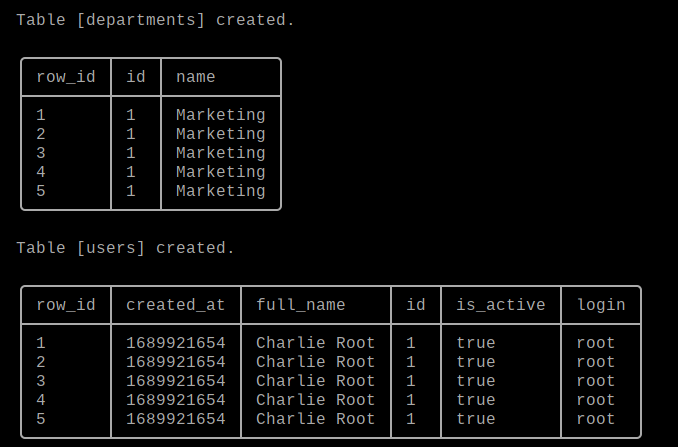
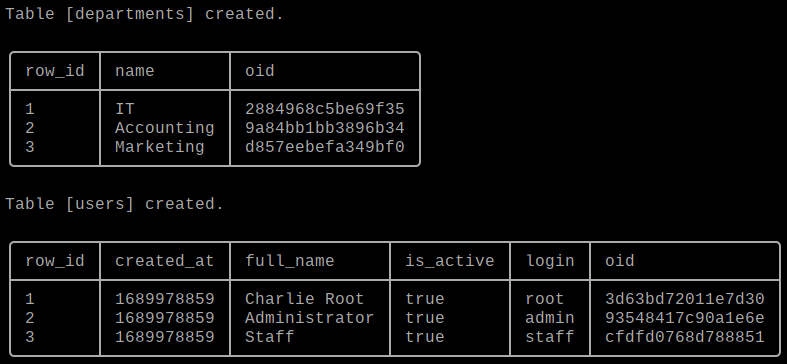
refactor: crud example

diff --git a/src/rebox-storage/examples/crud.rs b/src/rebox-storage/examples/crud.rs
@@ -1,4 +1,8 @@
 use chrono::Utc;
+use rebox_storage::database::{
+    row::{column::data::RowData, TableRow},
+    Database,
+};
 use rebox_types::{
     schema::{
         column::{
@@ -10,13 +14,8 @@ use rebox_types::{
     ReboxResult,
 };
 
-use rebox_storage::database::{
-    row::{column::data::RowData, TableRow},
-    Database,
-};
 fn main() -> ReboxResult<()> {
     let db_name = "example_crud";
-
     let db = Database::new().set_name(db_name)?.build()?;
     CrudDepartments::run(&db)?;
     CrudUsers::run(&db)?;
@@ -42,7 +41,7 @@ impl CrudDepartments {
 
         // let rows = db.get_table_rows(&table_name, Some(&row_id))?;
         let rows = db.get_table_rows(&table_name, None)?;
-        print_rows_as_json(&rows)?;
+        // print_rows_as_json(&rows)?;
         print_row_as_table(&rows)?;
 
         // let table_name = db.drop_table(table.name())?;
@@ -52,8 +51,8 @@ impl CrudDepartments {
     }
     fn generate_table() -> ReboxResult<Table> {
         let id = SchemaColumn::new()
-            .set_name("id")?
-            .set_kind(ColumnKind::Natural)
+            .set_name("oid")?
+            .set_kind(ColumnKind::Text)
             .set_nullable(false)
             .build();
         let name = SchemaColumn::new()
@@ -75,8 +74,8 @@ impl CrudDepartments {
             let mut row = TableRow::from(table);
             let btree = row.get_mut();
             let _ = btree
-                .get_mut("id")
-                .map(|column| column.set_value(ColumnValue::Natural(1)));
+                .get_mut("oid")
+                .map(|column| column.set_value(ColumnValue::Text(gen_new_oid())));
             let _ = btree
                 .get_mut("name")
                 .map(|column| column.set_value(ColumnValue::Text("IT".into())));
@@ -89,8 +88,8 @@ impl CrudDepartments {
             let mut row = TableRow::from(table);
             let btree = row.get_mut();
             let _ = btree
-                .get_mut("id")
-                .map(|column| column.set_value(ColumnValue::Natural(2)));
+                .get_mut("oid")
+                .map(|column| column.set_value(ColumnValue::Text(gen_new_oid())));
             let _ = btree
                 .get_mut("name")
                 .map(|column| column.set_value(ColumnValue::Text("Accounting".into())));
@@ -103,8 +102,8 @@ impl CrudDepartments {
             let mut row = TableRow::from(table);
             let btree = row.get_mut();
             let _ = btree
-                .get_mut("id")
-                .map(|column| column.set_value(ColumnValue::Natural(3)));
+                .get_mut("oid")
+                .map(|column| column.set_value(ColumnValue::Text(gen_new_oid())));
             let _ = btree
                 .get_mut("name")
                 .map(|column| column.set_value(ColumnValue::Text("Marketing".into())));
@@ -126,13 +125,16 @@ impl CrudUsers {
         let table_name = db.create_table(table.clone())?;
         println!("\nTable [{table_name}] created.\n");
 
-        let table_row = Self::generate_data(&table)?;
+        let rows = Self::generate_data(&table)?;
         // dbg!(&table_row);
-        let row_id = db.insert_into_table(table_name.clone(), table_row)?;
+        let _ = rows
+            .into_iter()
+            .map(|row| db.insert_into_table(table_name.clone(), row))
+            .collect::<ReboxResult<Vec<RowId>>>()?;
 
         // let rows = db.get_table_rows(&table_name, Some(&row_id))?;
         let rows = db.get_table_rows(&table_name, None)?;
-        print_rows_as_json(&rows)?;
+        // print_rows_as_json(&rows)?;
         print_row_as_table(&rows)?;
 
         // let table_name = db.drop_table(table.name())?;
@@ -141,8 +143,8 @@ impl CrudUsers {
     }
     fn generate_table() -> ReboxResult<Table> {
         let id = SchemaColumn::new()
-            .set_name("id")?
-            .set_kind(ColumnKind::Natural)
+            .set_name("oid")?
+            .set_kind(ColumnKind::Text)
             .set_nullable(false)
             .build();
         let login = SchemaColumn::new()
@@ -178,30 +180,85 @@ impl CrudUsers {
 
         Ok(table)
     }
-    fn generate_data(table: &Table) -> ReboxResult<TableRow> {
-        let mut row = TableRow::from(table);
-        let btree = row.get_mut();
-        let _ = btree
-            .get_mut("id")
-            .map(|column| column.set_value(ColumnValue::Natural(1)));
-        let _ = btree
-            .get_mut("login")
-            .map(|column| column.set_value(ColumnValue::Text("root".into())));
+    fn generate_data(table: &Table) -> ReboxResult<Vec<TableRow>> {
+        let mut rows = vec![];
+        {
+            let mut row = TableRow::from(table);
+            let btree = row.get_mut();
+            let _ = btree
+                .get_mut("oid")
+                .map(|column| column.set_value(ColumnValue::Text(gen_new_oid())));
+            let _ = btree
+                .get_mut("login")
+                .map(|column| column.set_value(ColumnValue::Text("root".into())));
 
-        let _ = btree
-            .get_mut("full_name")
-            .map(|column| column.set_value(ColumnValue::Text("Charlie Root".into())));
+            let _ = btree
+                .get_mut("full_name")
+                .map(|column| column.set_value(ColumnValue::Text("Charlie Root".into())));
 
-        let _ = btree
-            .get_mut("is_active")
-            .map(|column| column.set_value(ColumnValue::Bool(true)));
+            let _ = btree
+                .get_mut("is_active")
+                .map(|column| column.set_value(ColumnValue::Bool(true)));
 
-        let _ = btree
-            .get_mut("created_at")
-            .map(|column| column.set_value(ColumnValue::Integer(Utc::now().timestamp())));
-        row.verify()?;
-        row.check_verified()?;
-        Ok(row)
+            let _ = btree
+                .get_mut("created_at")
+                .map(|column| column.set_value(ColumnValue::Integer(Utc::now().timestamp())));
+            row.verify()?;
+            row.check_verified()?;
+            rows.push(row);
+        }
+        {
+            let mut row = TableRow::from(table);
+            let btree = row.get_mut();
+            let _ = btree
+                .get_mut("oid")
+                .map(|column| column.set_value(ColumnValue::Text(gen_new_oid())));
+            let _ = btree
+                .get_mut("login")
+                .map(|column| column.set_value(ColumnValue::Text("admin".into())));
+
+            let _ = btree
+                .get_mut("full_name")
+                .map(|column| column.set_value(ColumnValue::Text("Administrator".into())));
+
+            let _ = btree
+                .get_mut("is_active")
+                .map(|column| column.set_value(ColumnValue::Bool(true)));
+
+            let _ = btree
+                .get_mut("created_at")
+                .map(|column| column.set_value(ColumnValue::Integer(Utc::now().timestamp())));
+            row.verify()?;
+            row.check_verified()?;
+            rows.push(row);
+        }
+        {
+            let mut row = TableRow::from(table);
+            let btree = row.get_mut();
+            let _ = btree
+                .get_mut("oid")
+                .map(|column| column.set_value(ColumnValue::Text(gen_new_oid())));
+            let _ = btree
+                .get_mut("login")
+                .map(|column| column.set_value(ColumnValue::Text("staff".into())));
+
+            let _ = btree
+                .get_mut("full_name")
+                .map(|column| column.set_value(ColumnValue::Text("Staff".into())));
+
+            let _ = btree
+                .get_mut("is_active")
+                .map(|column| column.set_value(ColumnValue::Bool(true)));
+
+            let _ = btree
+                .get_mut("created_at")
+                .map(|column| column.set_value(ColumnValue::Integer(Utc::now().timestamp())));
+            row.verify()?;
+            row.check_verified()?;
+            rows.push(row);
+        }
+
+        Ok(rows)
     }
 }
 
@@ -244,4 +301,17 @@ fn print_row_as_table(rows: &Vec<RowData>) -> ReboxResult<()> {
 
     println!("{}", table);
     Ok(())
+}
+
+fn gen_new_oid() -> String {
+    use std::collections::hash_map::DefaultHasher;
+    use std::hash::Hash;
+    use std::hash::Hasher;
+    use ulid::Ulid;
+    let t = Ulid::new();
+    let mut s = DefaultHasher::new();
+    t.hash(&mut s);
+    let hash = s.finish().to_be_bytes();
+
+    hex::encode(hash)
 }
